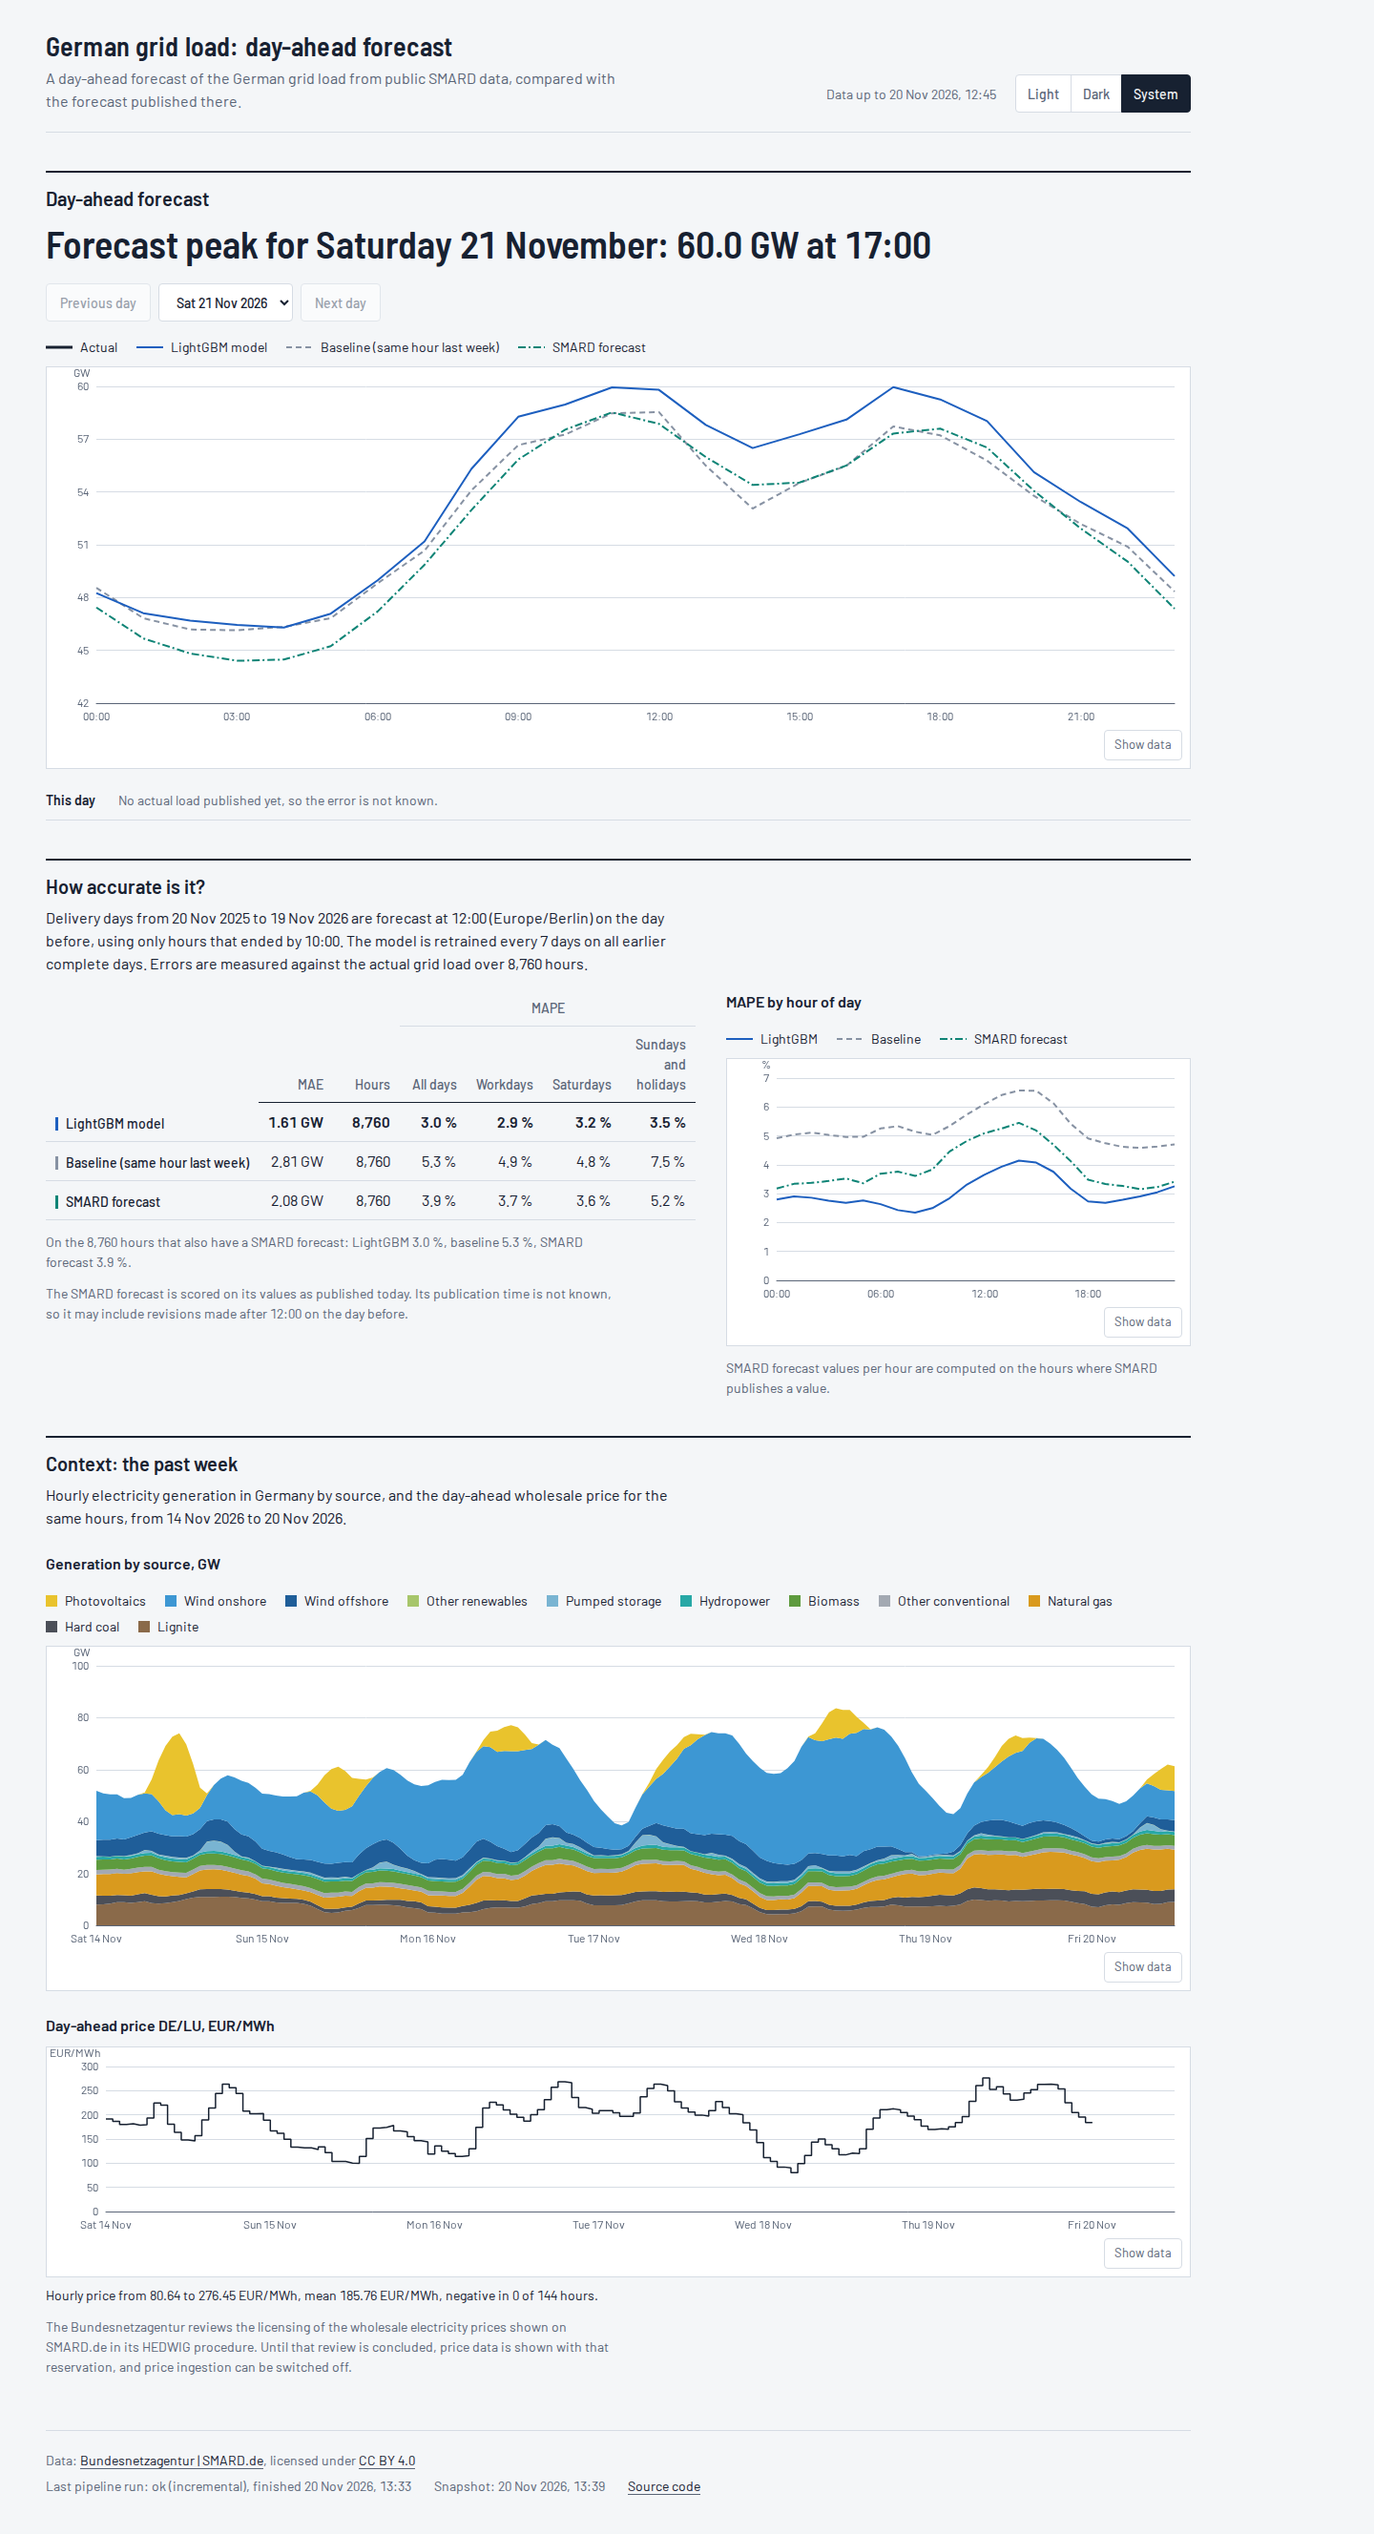
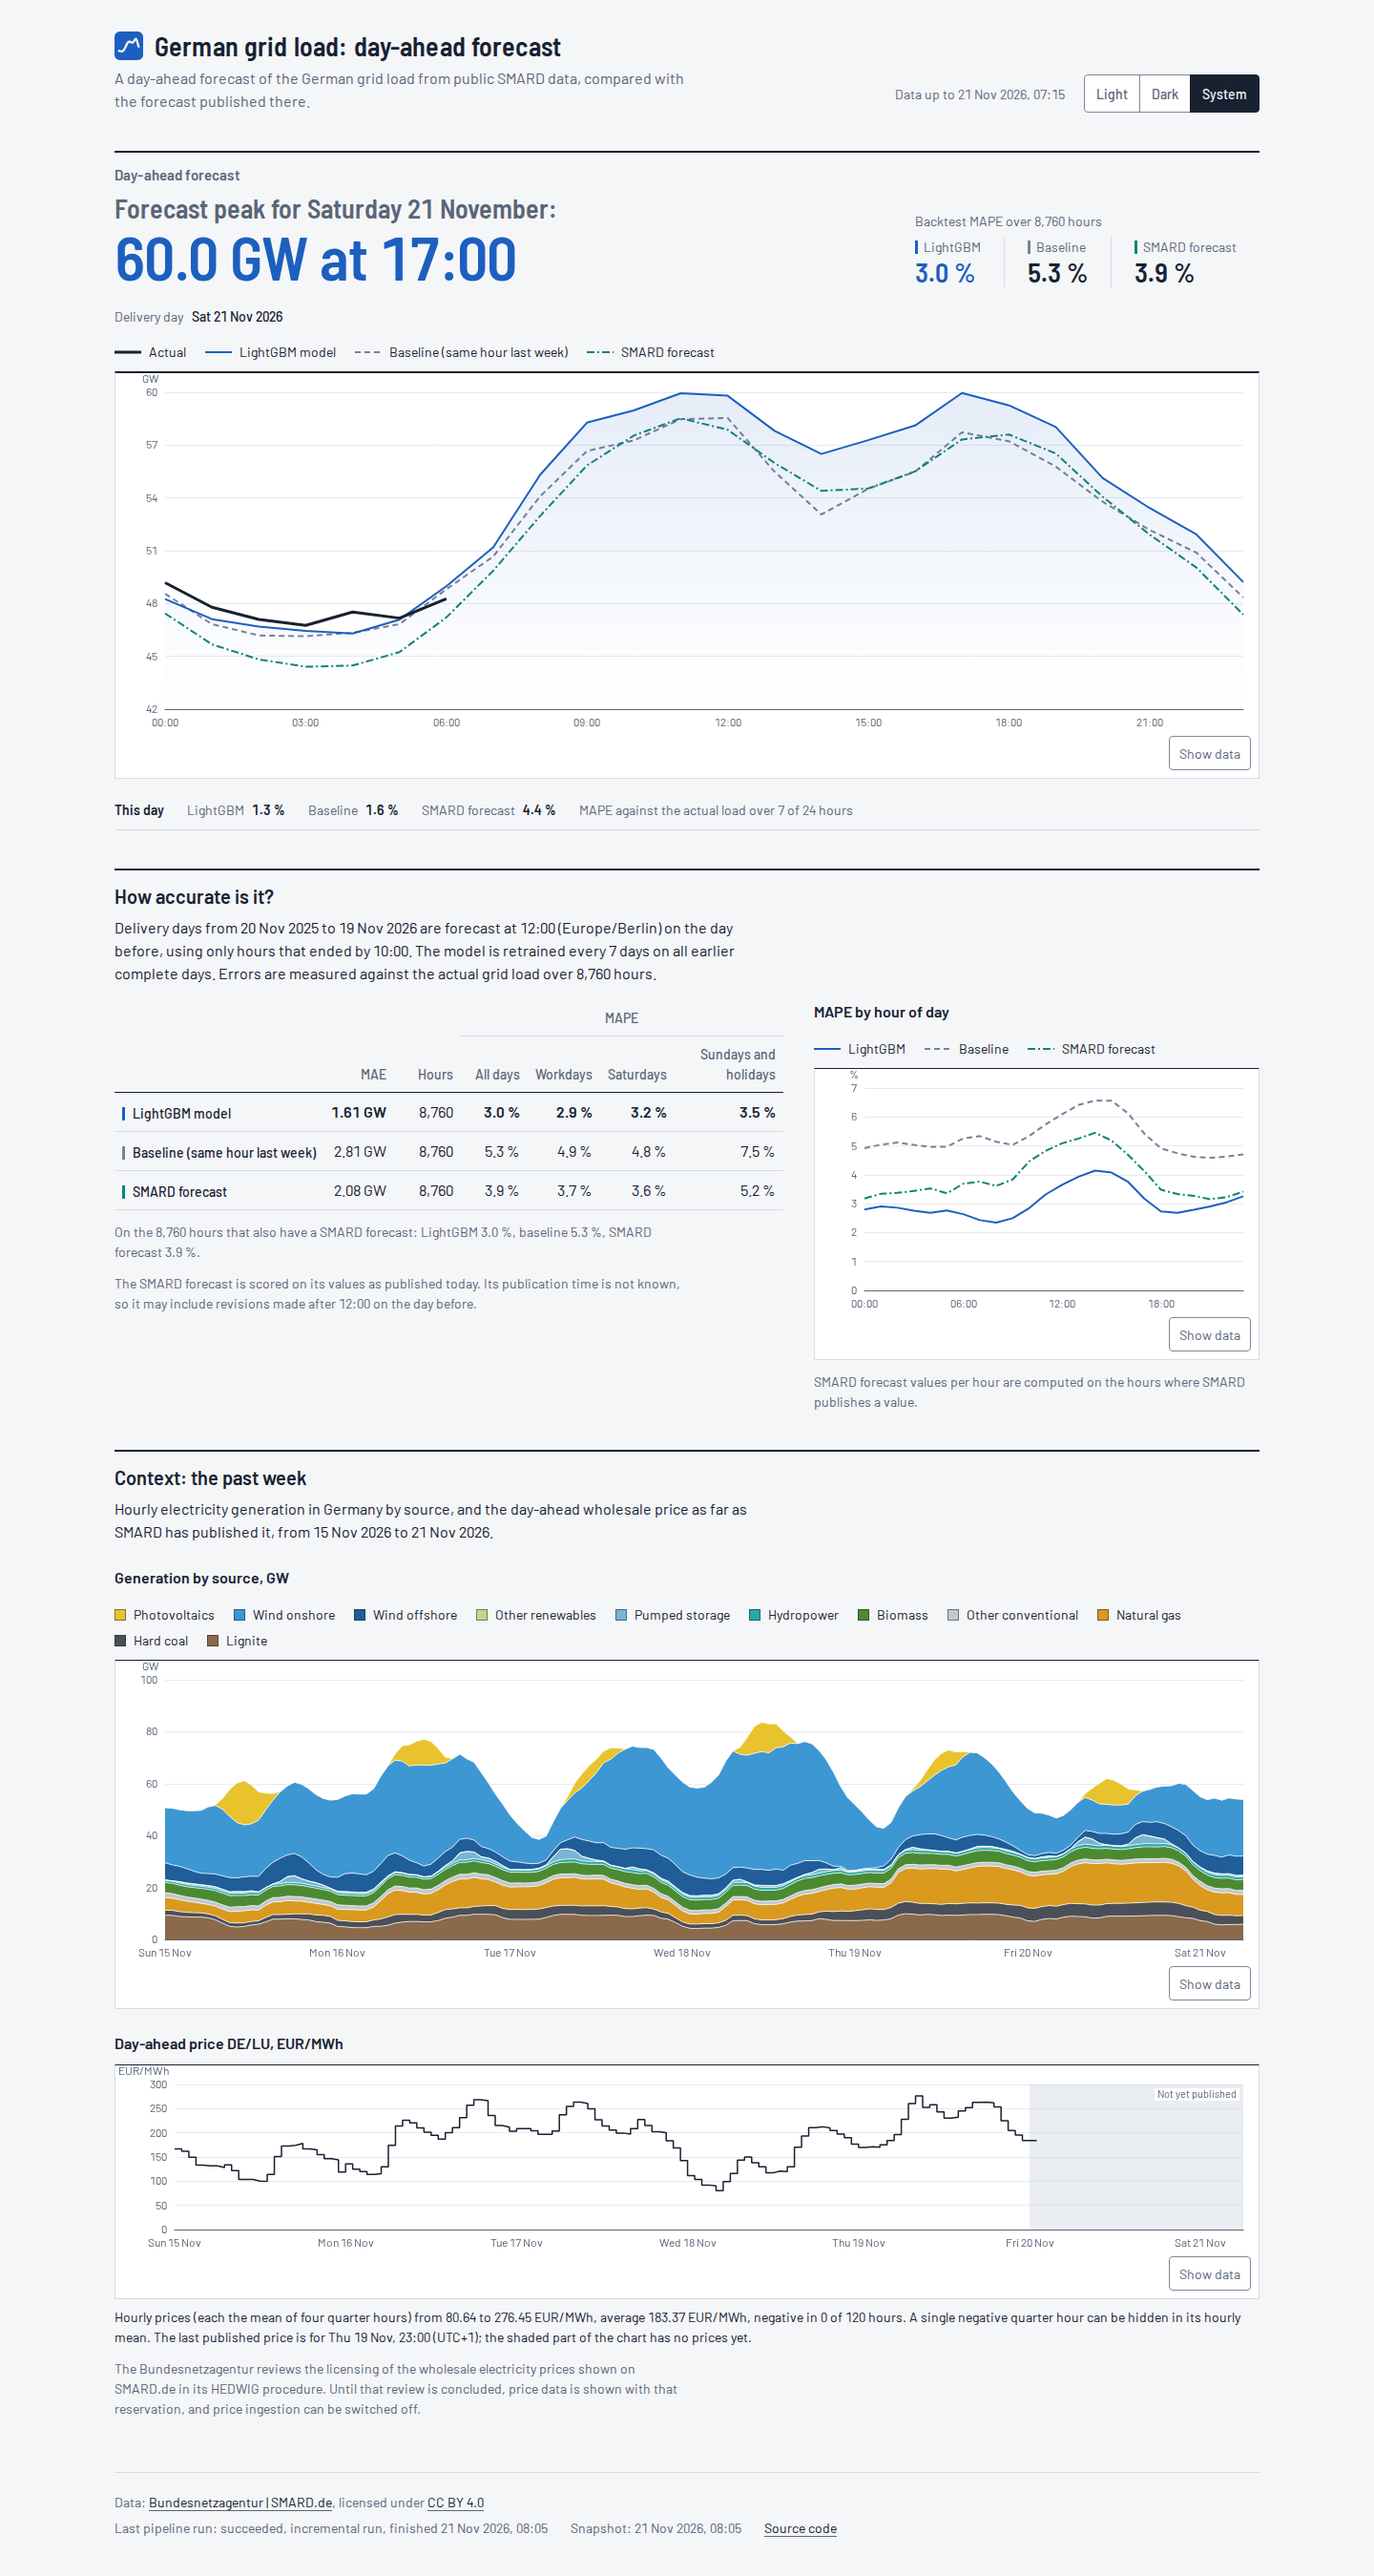
Describe the dashboard refresh and update its screenshot

diff --git a/CHANGELOG.md b/CHANGELOG.md
@@ -10,10 +10,16 @@ The project uses [Semantic Versioning](https://semver.org/) in its 0.x form: a m
 
 - `/forecasts` and `/status` report whether a forecast was issued with incomplete inputs (`degraded`) and which input checks failed (`degraded_checks`), so a client can mark such a forecast instead of presenting it as complete. Both are `null` for baseline runs and for runs stored before the checks were recorded.
 - The dashboard marks a forecast that was computed with incomplete load data and names the missing inputs in plain words, so a reader knows it may be less accurate than the backtest suggests.
+- Next to the forecast peak, the dashboard shows the backtest MAPE of the model, the baseline and the SMARD forecast, so the peak can be read against how accurate each forecast has been. The values are the same as in the backtest table further down.
+- The dashboard has a favicon, a page description and a browser bar colour for the light and the dark theme.
 
 ### Changed
 
 - Busy 503 responses of the API carry `Retry-After: 1`, so clients know when to retry.
+- The forecast peak and its hour are the largest text on the dashboard, set in the colour of the model line, with the sentence that introduces them smaller above; the section is named by a small label instead of repeating the page title. Headings no longer leave a single word such as the hour alone on a line. On wide screens the page is centred instead of leaving an empty band on the right.
+- Old data is announced in a band across the page instead of only in a small note in the header. Before the first snapshot, the page shows the forecast section with the first-start text and an empty chart frame instead of a single line. Without a freshness line, the theme switch lines up with the page title.
+- Buttons, the day list and the theme switch have borders with at least 3:1 contrast in both themes, so they read as controls. The dark theme uses the same contrast order as the light one for muted text and the baseline and SMARD lines.
+- The forecast chart has a faint fill under the model line and calmer grid lines, the forecast lines draw in once when the page opens (not with reduced motion), and the tooltips stand off the chart with their own background, a visible border and a shadow.
 - The price chart shades the hours for which SMARD has not yet published prices and names the last published hour below the chart, so its early end no longer looks like a rendering fault. When prices turn negative, the zero line is drawn darker than the other grid lines. The price summary states once that each hourly price is the mean of four quarter hours.
 - With only one forecast day, the dashboard names the day as plain text instead of showing two buttons that can never be used.
 - While the dashboard loads, each section keeps about the height of its charts free, so the page no longer jumps when the data arrives. In every error notice the Retry button sits below the message.
@@ -25,6 +31,8 @@ The project uses [Semantic Versioning](https://semver.org/) in its 0.x form: a m
 
 ### Fixed
 
+- When several sections fail for the same reason, such as an unreadable snapshot, the dashboard shows one error notice with one Retry that reloads all of them, instead of one identical notice per section.
+- On phone-width screens, the forecast chart on clock-change days keeps its 00:00 and 06:00 labels (it labels every sixth hour there), the clock-change label no longer runs into the GW unit, and the "Not yet published" label of the price chart sits above the chart instead of over the prices. Between 761 and 900 px window width, the backtest table uses short row names, so "Sundays and holidays" no longer wraps to three lines.
 - On the 25-hour day of the autumn clock change, the dashboard names the two 02:00 hours with their UTC offset in the headline, the chart and the clock-change note, and a dashed line marks the change in the chart. The time axis keeps its three-hour rhythm instead of showing two identical 02:00 labels.
 - Between 641 and 760 px window width, the backtest table no longer needs sideways scrolling, and the page itself no longer scrolls sideways by a few pixels at 641 to 644 px.
 - Hourly values in the API are exact: `43648.21` instead of `43648.21000000001`. Two snapshots of the same data now give the same values to the last digit, so a client comparing them sees no spurious changes. Forecast inputs and backtest results are unchanged.
